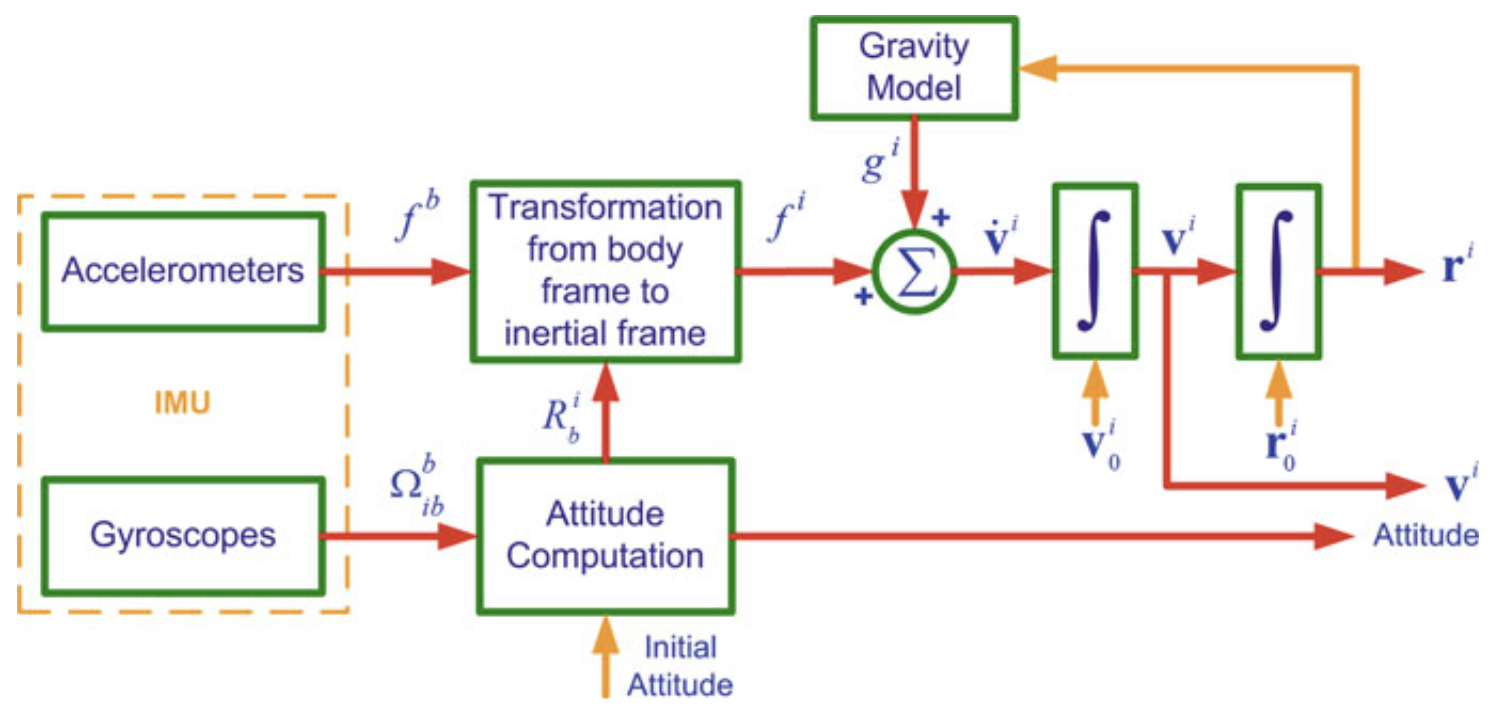
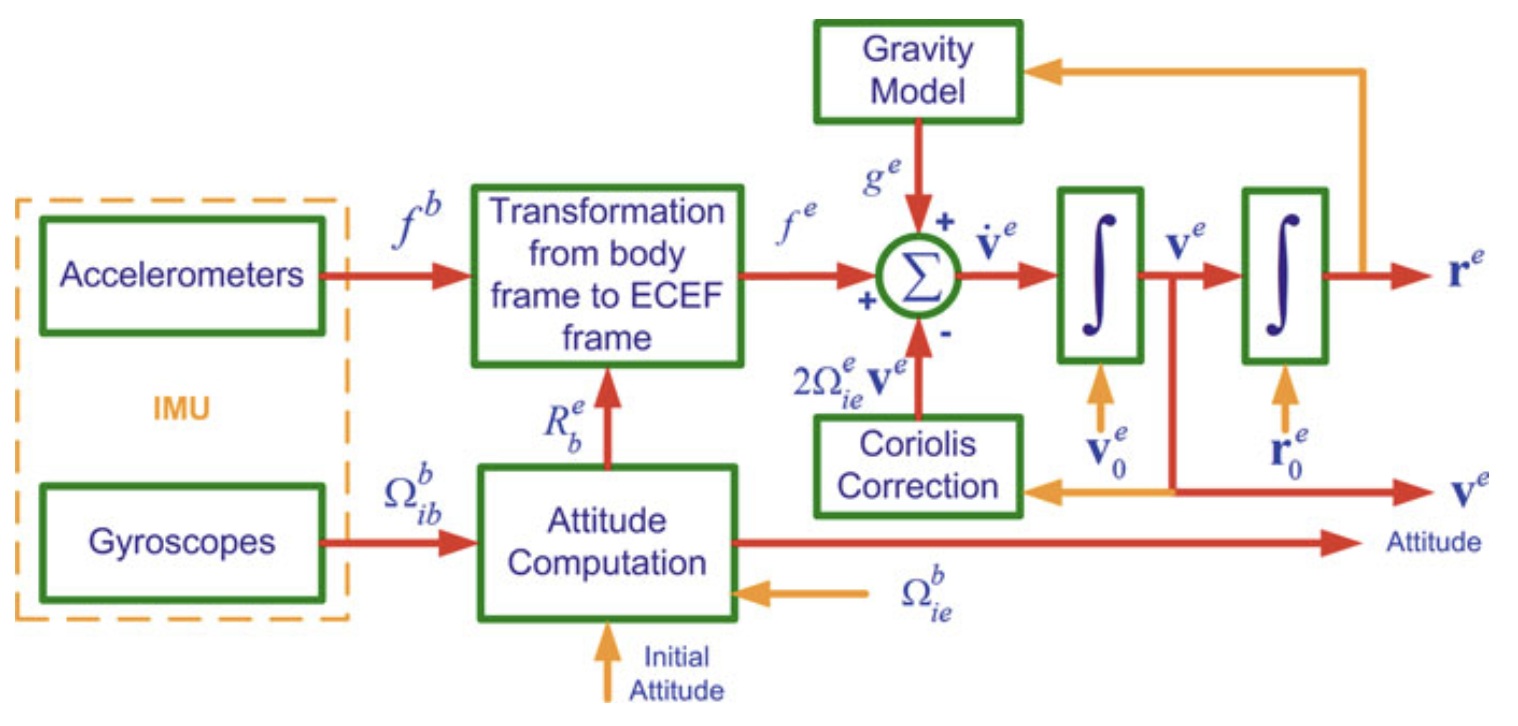
Quartz sync: Nov 26, 2025, 9:22 PM

diff --git a/content/notes/RPCN 4.md b/content/notes/RPCN 4.md
@@ -2,12 +2,16 @@
 title: Mechanization
 draft: false
 tags:
-date: 2025-11-25
+date: 2025-11-26
 ---
 
 Lecture from the [[RPCN]] course. Motivation: How does a stabilizer work?
 
 **Mechanization** is the process of converting the output of an IMU into position, velocity and attitude information. The outputs include rotation rates about three body axes $\omega_{ib}^b$ measured by the gyroscopes triad and three specific forces $f^b$ along the body axes measured by the accelerometer triad, all of which are with respect to the inertial frame. Mechanization is a recursive process that starts with a specified set of initial values and iterates on the output.
+
+<div class="container" style="display: flex; justify-content: center; align-items: center;">
+    <img src="../static/notes/INS.png" style="max-width: 100%; height: auto;">
+</div>
 
 **Properties of angular velocities**:
 
@@ -29,6 +33,54 @@ I covered in [[RPCN 3|Coordinate Systems]] that $f^b = a^b-g^b$ is the specific 
 
 In the figure above we can see the mechanization of an INS(Inertial Navigation System) in the inertial frame. We want to integrate $p$, $v$, and $\theta$ from the IMU measured accelerations $a$ and angular velocities $\omega$.
 
+We know that
+
+$$
+f^i = a^i - \overline{\mathbf{g}}^i
+$$
+
+By letting $a^i = \ddot r^i$, this can be rewritten as:
+
+$$
+\ddot r^i = f^i + \overline{\mathbf{g}}^i
+$$
+
+And for ease of solution, the set of three second-order differential equations can be transformed to a set of first-order differential equations as follows:
+
+$$
+\dot r^i = \mathbf{v}^i
+$$
+
+$$
+\dot{\mathbf{v}}^i = f^i + \overline{\mathbf{g}}^i
+$$
+
+The measurements are usually made in the body frame, w.r.t. inertial frame. We can use the rotation matrix $R_b^i$ to extract
+
+$$
+f^i = R_b^i f^b
+$$
+
+Since the gravitational vector is usually expressed in either the e-frame or the l-frame, it can be transformed to the i-frame through a rotation matrix $R_e^i$ or $R_l^i$. We'll consider e-frame
+
+$$
+\overline{\mathbf{g}}^i = R_e^i \overline{\mathbf{g}}^e
+$$
+
+Substituting in the first-order differential equations, we get:
+
+$$
+\dot{\mathbf{v}}^i = R_b^if^b + R_e^i \overline{\mathbf{g}}^e
+$$
+
+As discussed in [[rot derivative|Rotation Matrix Time Derivative]], the rate of change of a transformation matrix is 
+
+$$
+\dot R_b^i = R_b^i \Omega_{ib}^b
+$$
+
+The mechanization equations for the i-frame can therefore be summarized as:
+
 $$
 \begin{bmatrix}
 \dot{r}^i \\
@@ -38,13 +90,7 @@ $$
 =
 \begin{bmatrix}
 v^i \\
-R_b^i a^b \\
-R_b^i \Omega_{ib}^b
-\end{bmatrix}
-=
-\begin{bmatrix}
-v^i \\
-R_b^i f^b + R_b^i g^b \\
+R_b^if^b + R_e^i \overline{\mathbf{g}}^e \\
 R_b^i \Omega_{ib}^b
 \end{bmatrix}
 $$
@@ -63,46 +109,6 @@ These all use the measurement from the IMU.
 >* Related to [[rot derivative|Rotation Matrix Time Derivative]]
 >* If $\omega$ is expressed in the **inertial/fixed frame**: $\dot R = \Omega \cdot R$
 >* If $\omega$ is expressed in the **rotating/body** frame: $\dot R = R \cdot \Omega$
-
-The rate of change of the rotation matrix $R_b^e$ can be given as
-
-$$
-\dot R_b^e = R_b^e \Omega_{eb}^b
-$$
-
-To extract $\Omega_{eb}^b$, we can do the following chain rule:
-
-$$
-\Omega_{ib}^b = \Omega_{ie}^b + \Omega_{eb}^b
-$$
-
-$$
-\Omega_{eb}^b = - \Omega_{ie}^b + \Omega_{ib}^b
-$$
-
-Substituting, we get:
-
-$$
-\dot R_b^e = R_b^e \begin{pmatrix} - \Omega_{ie}^b + \Omega_{ib}^b \end{pmatrix}
-$$
-
-So the e-frame mechanization equations can be summarized as:
-
-$$
-\begin{bmatrix}
-\dot{\mathbf{r}}^e \\
-\dot{\mathbf{v}}^e \\
-\dot{R}_b^e
-\end{bmatrix}
-=
-\begin{bmatrix}
-\mathbf{v}^e \\
-R_b^e \mathbf{f}^b - 2\Omega_{ie}^e \mathbf{v}^e + \mathbf{g}^e \\
-R_b^e (\Omega_{ie}^b + \Omega_{ib}^b)
-\end{bmatrix}
-$$
-
-The term $- 2\Omega_{ie}^e$ in the velocity derivative comes from the rotation of the Earth. 
 
 **Mathematical Proof (From the book)**:
 
@@ -152,9 +158,55 @@ $$
 
 q.e.d.
 
+The rate of change of the rotation matrix $R_b^e$ can be given as
+
+$$
+\dot R_b^e = R_b^e \Omega_{eb}^b
+$$
+
+To extract $\Omega_{eb}^b$, we can do the following chain rule:
+
+$$
+\Omega_{ib}^b = \Omega_{ie}^b + \Omega_{eb}^b
+$$
+
+$$
+\Omega_{eb}^b = - \Omega_{ie}^b + \Omega_{ib}^b
+$$
+
+Substituting, we get:
+
+$$
+\dot R_b^e = R_b^e \begin{pmatrix} - \Omega_{ie}^b + \Omega_{ib}^b \end{pmatrix}
+$$
+
+So the e-frame mechanization equations can be summarized as:
+
+$$
+\begin{bmatrix}
+\dot{\mathbf{r}}^e \\
+\dot{\mathbf{v}}^e \\
+\dot{R}_b^e
+\end{bmatrix}
+=
+\begin{bmatrix}
+\mathbf{v}^e \\
+R_b^e \mathbf{f}^b - 2\Omega_{ie}^e \mathbf{v}^e + \mathbf{g}^e \\
+R_b^e (\Omega_{ie}^b + \Omega_{ib}^b)
+\end{bmatrix}
+$$
+
+The term $- 2\Omega_{ie}^e$ in the velocity derivative comes from the rotation of the Earth. 
+
 ---
 
 # INS Mechanization in Local-Level (Navigation) Frame
+
+In many applications the mechanization equations are desired in the local frame for the following reasons:
+
+* The navigation equations in the l-frame furnish a navigation solution that is intuitive to the user on or near the Earth’s surface.
+* Since the axes of the l-frame are aligned to the local east, north and up directions, the attitude angles (pitch, roll and azimuth) can be obtained directly at the output of the mechanization equations when solved in the local-level frame.
+* The computational errors in the navigation parameters on the horizontal (E-N) plane are bound by the Schuler effect
 
 <div class="container" style="display: flex; justify-content: center; align-items: center;">
     <img src="../static/notes/INS3.png" style="max-width: 100%; height: auto;">
@@ -374,37 +426,23 @@ $$
 </div>
 
 **Sliding Window Averaging**: 
-	1. Applies a moving average over recent measurements
-	2. Reduces short-term fluctuations while preserving trends
-	3. Velocity is calculated for example by using modified Euler formula $\mathbf{v}_{k+1}^l = \mathbf{v}_k^l + \frac{1}{2} (\Delta \mathbf{v}_k^l + \Delta \mathbf{v}_{k+1}^l)$
+
+1. Applies a moving average over recent measurements
+2. Reduces short-term fluctuations while preserving trends
+3. Velocity is calculated for example by using modified Euler formula $\mathbf{v}_{k+1}^l = \mathbf{v}_k^l + \frac{1}{2} (\Delta \mathbf{v}_k^l + \Delta \mathbf{v}_{k+1}^l)$
 
 **Kalman Filtering**:
-	1. Optimal estimation combining sensor data and system dynamics
-	2. Correct for drift and noise by incorporating external measurements like GPS
+
+1. Optimal estimation combining sensor data and system dynamics
+2. Correct for drift and noise by incorporating external measurements like GPS
 
 **Complementary Filtering**:
-	1. Combined high-freq data (gyroscopes) and low-freq data (accelerometers)
-	2. Simple and computationally efficient
-	3. Can be used e.g. for gyro bias estimation
+
+1. Combined high-freq data (gyroscopes) and low-freq data (accelerometers)
+2. Simple and computationally efficient
+3. Can be used e.g. for gyro bias estimation
 
 
-
-
-The accelerometer measures the specific force $f = a-g$.
-We know that $f \cdot g = \mid f \mid \mid g \mid \cos \theta$. g is $a_z$.
-
-$\frac{a_z}{\sqrt{a_x^2+a_y^2+a_z^2}} = \cos \theta$ (ideal i think?)
-
-From intertial to ECEF, we need to add $\omega_e$ on z axis since ECEF rotates with the earth and inertial is fixed.
-
-In the slides we compensate for h as well in inertial(i think?)
-
-# Mechanization (Atitude)
-
-* with gyroscope measurements.
-* the level of noise from this assignment's imu is so large that it's impossible to estimate the gyro scale.
-
-Try to use taylor expansion for rodrigues in the homework.
 
 <style>
   .encoder-section {

diff --git a/content/notes/cross product.md b/content/notes/cross product.md
@@ -1,0 +1,32 @@
+---
+title: Cross Product
+draft: false
+tags:
+date: 2025-11-26
+---
+ 
+I have to apply it in my [[RPCN]] course.
+
+For **any** vector **v** $\in$ $R^3$, $v = \begin{pmatrix} v_x \\ v_y \\ v_z \end{pmatrix}$, the skew-symmetric matrix is always:
+
+$$
+[\mathbf{v}]_\mathbf{x} = \begin{bmatrix} 0& -v_z& v_y \\ v_z& 0& -v_x \\-v_y& v_x &0 \end{bmatrix}
+$$
+
+**Key Properties**:
+
+1. **Diagonal is always zero**
+2. Antisymmetric: $[\mathbf{v}]_\mathbf{x}^T = -[\mathbf{v}]_\mathbf{x}$
+
+So when we want to compute the cross product between two vectors $\mathbf{v}$ and $\mathbf{w}$, we do 
+
+$$
+\mathbf{v} \times \mathbf{w} = [\mathbf{v}]_\mathbf{x} \mathbf{w} = \begin{bmatrix} 0& -v_z& v_y \\ v_z& 0& -v_x \\-v_y& v_x &0 \end{bmatrix} \begin{bmatrix} w_x \\ w_y \\ w_z \end{bmatrix}
+$$
+
+Or, if you think you can memorize
+
+$$
+\begin{bmatrix} a_1 \\ a_2 \\ a_3 \end{bmatrix} \times \begin{bmatrix} b_1 \\ b_2 \\ b_3 \end{bmatrix} = \begin{bmatrix} a_2b_3 - a_3b_2 \\ a_3b_1 - a_1b_3 \\ a_1b_2 - a_2b_1 \end{bmatrix}
+$$
+
